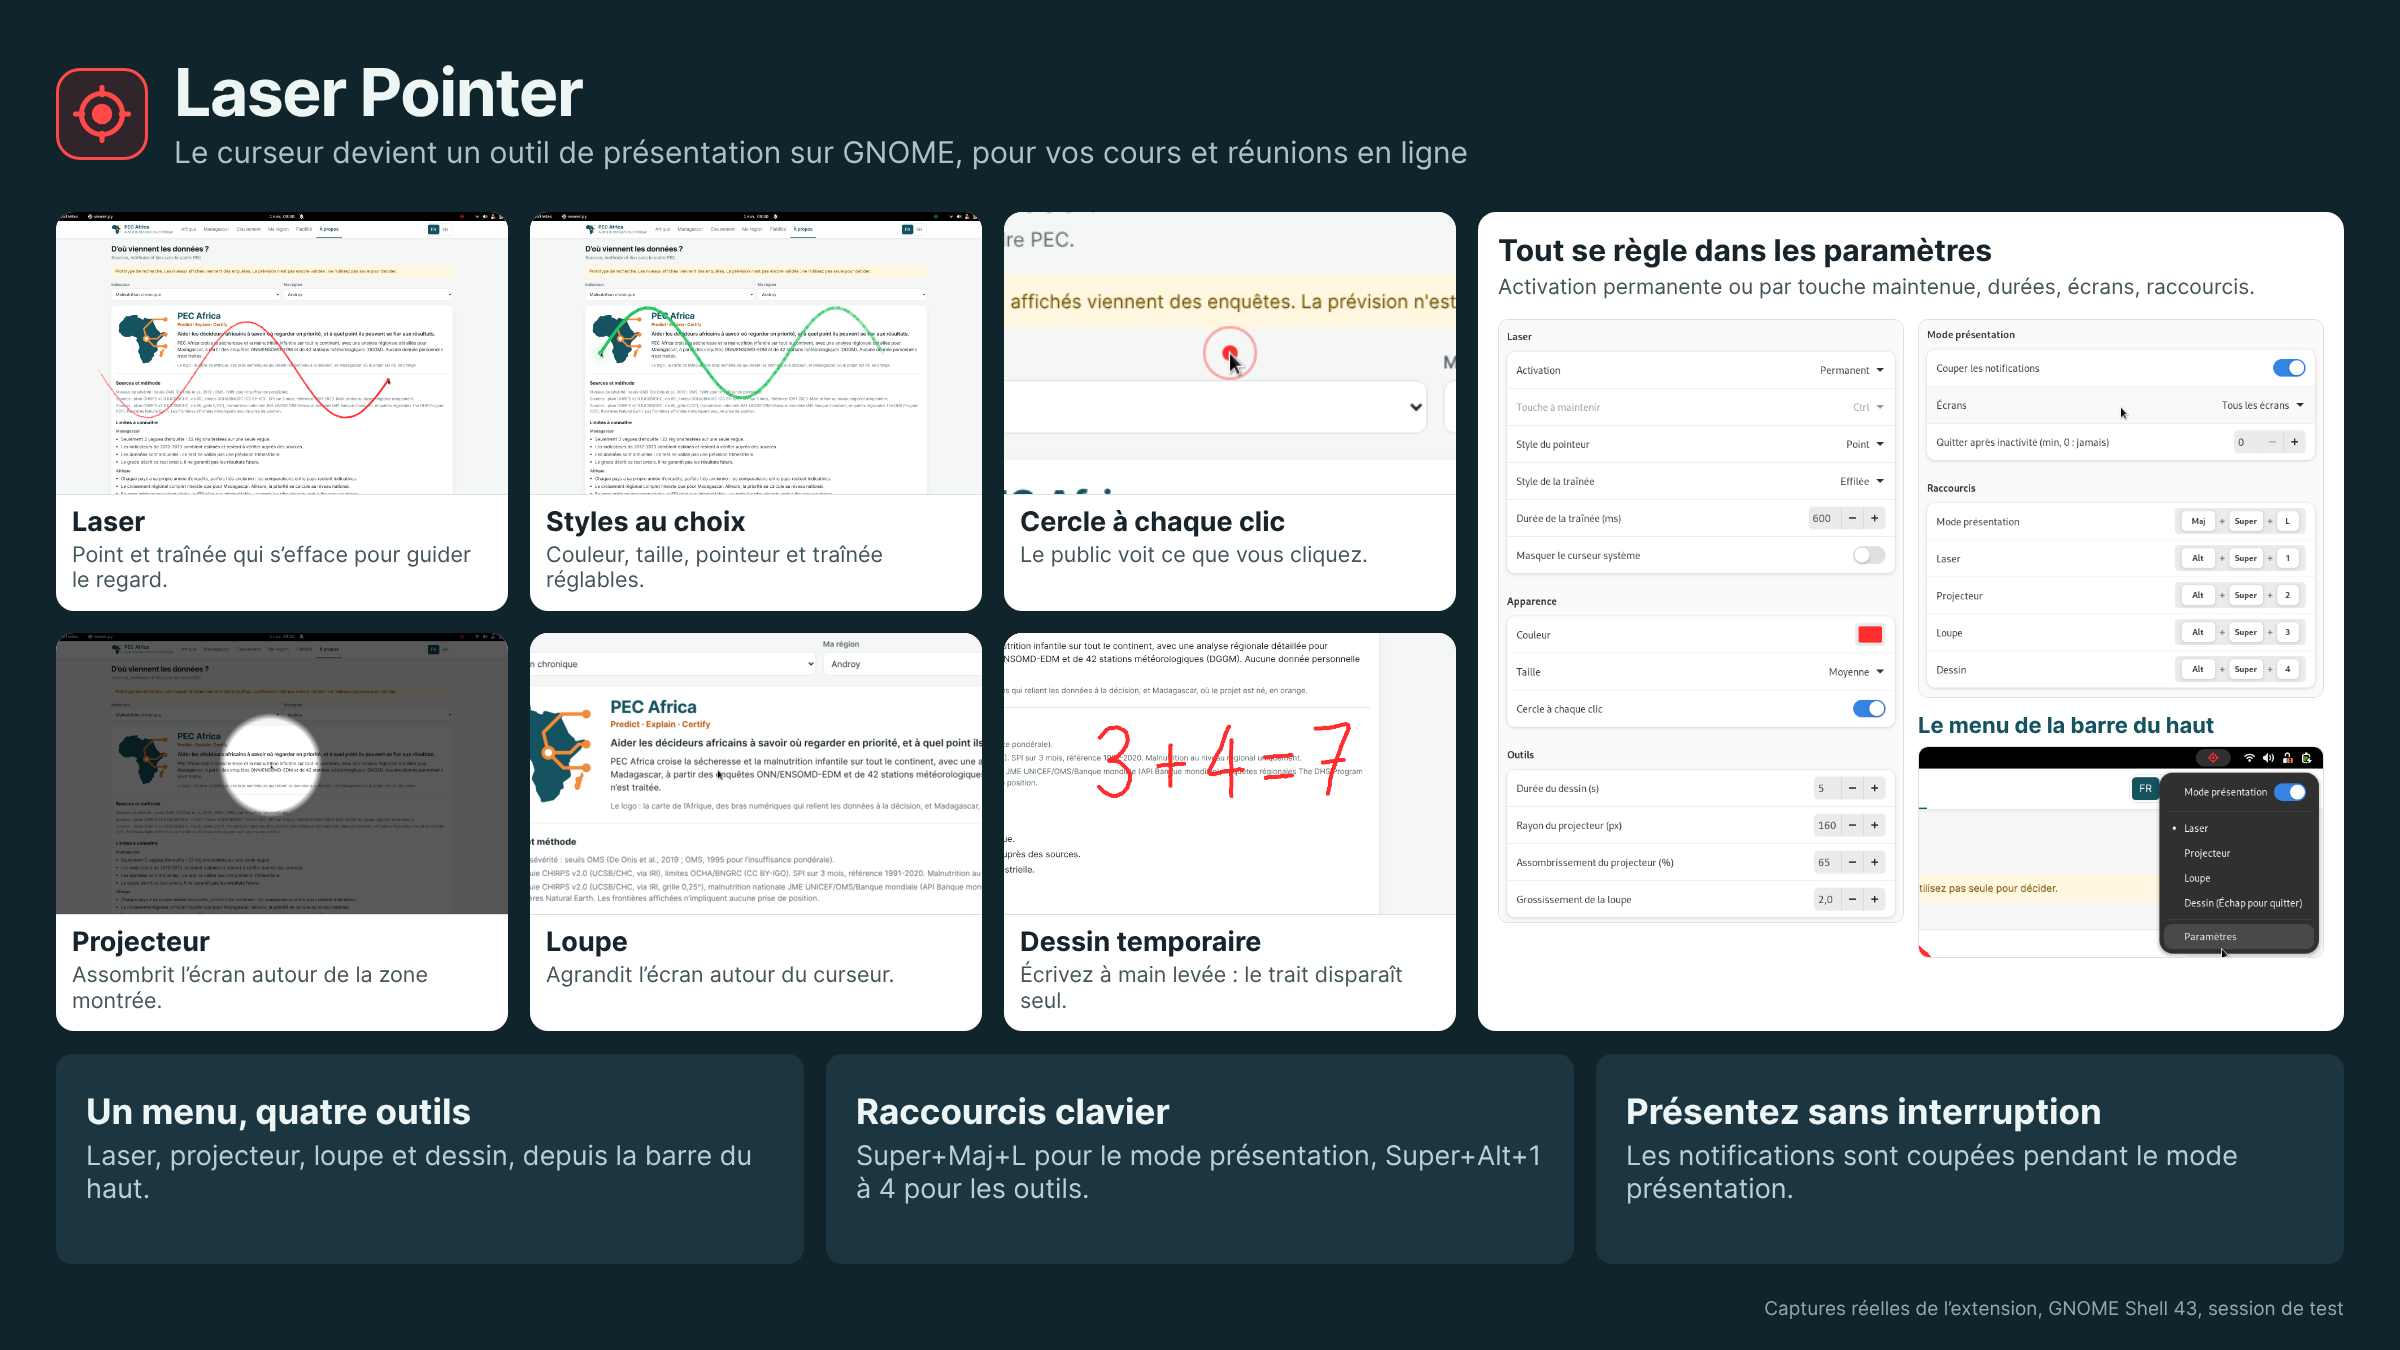
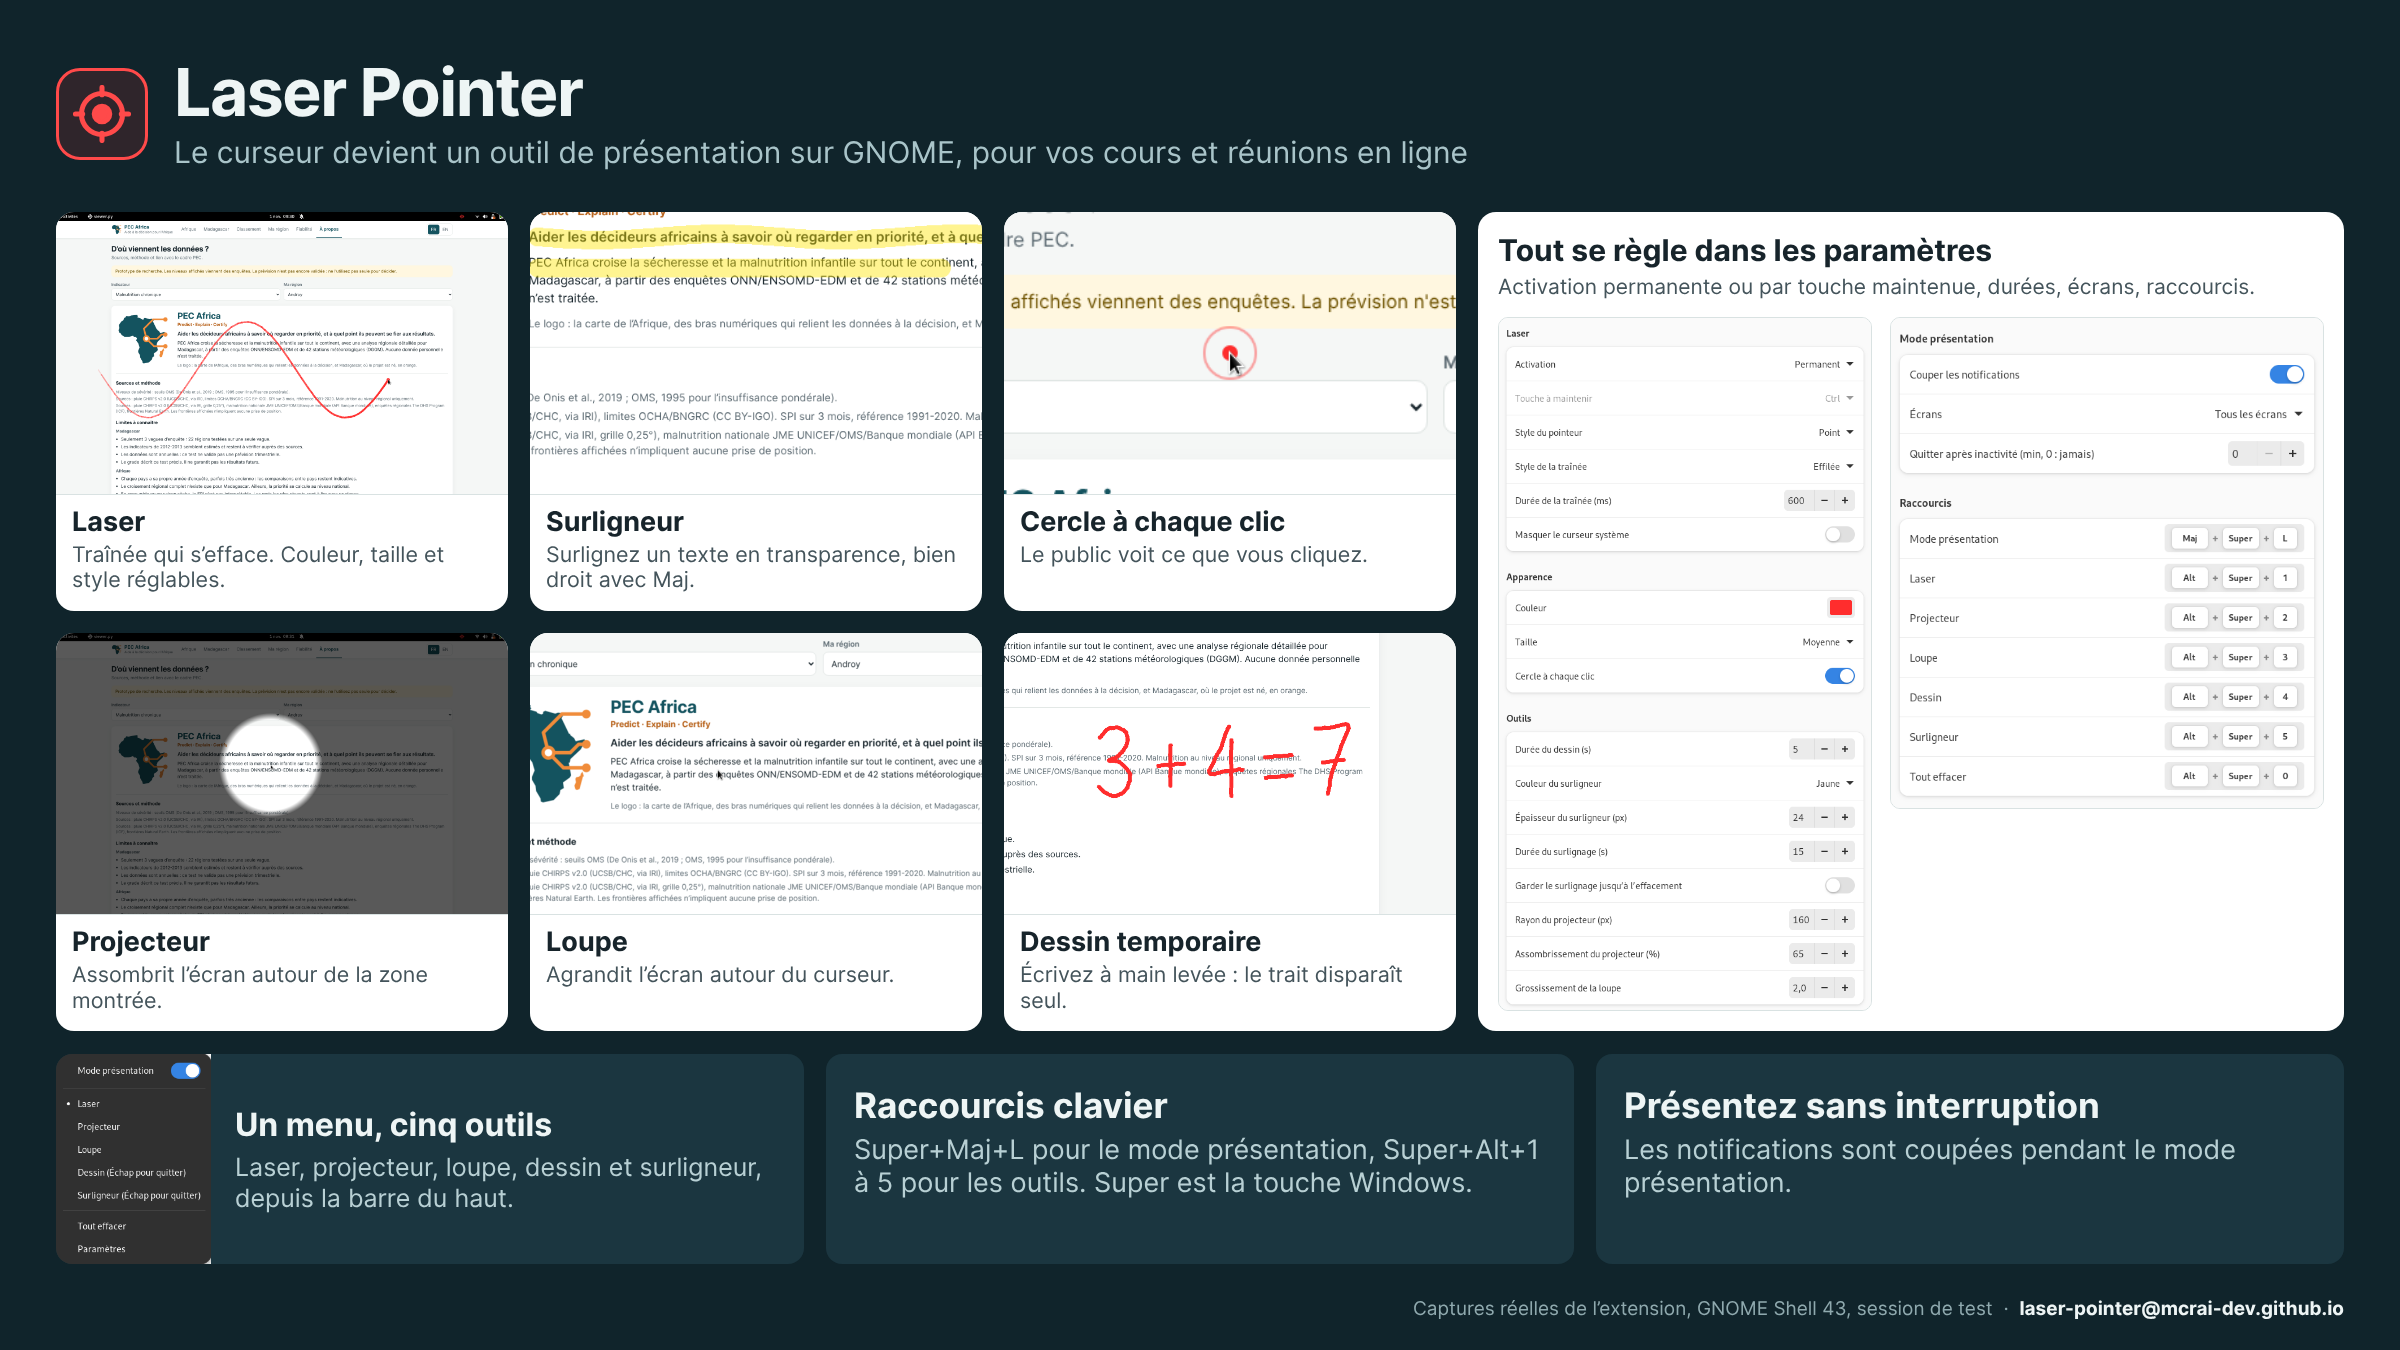
Add highlighter tool and update presentation image

diff --git a/extension.js b/extension.js
@@ -19,6 +19,8 @@ const FRAME_INTERVAL_MS = 16;
 const RIPPLE_SIZE = 64;
 const RIPPLE_DURATION_MS = 400;
 const INK_FADE_MS = 500;
+const HIGHLIGHT_OPACITY = 110;
+const HIGHLIGHT_COLORS = {yellow: '#ffe600', green: '#39d96b', pink: '#ff5ca8', blue: '#42b6ff'};
 
 const SIZES = {
     small: {trail: 4, pointer: 8},
@@ -40,10 +42,14 @@ const TOOLS = [
     {id: 'spotlight', label: 'Projecteur', shortcut: 'tool-spotlight'},
     {id: 'magnifier', label: 'Loupe', shortcut: 'tool-magnifier'},
     {id: 'draw', label: 'Dessin (Échap pour quitter)', shortcut: 'tool-draw'},
+    {id: 'highlight', label: 'Surligneur (Échap pour quitter)', shortcut: 'tool-highlight'},
 ];
+
+const CAPTURE_TOOLS = ['draw', 'highlight'];
 
 const SHORTCUT_KEYS = [
     'toggle-presentation',
+    'clear-annotations',
     ...TOOLS.map(tool => tool.shortcut),
 ];
 
@@ -90,6 +96,10 @@ class LaserPointerExtension {
             new PopupMenu.PopupSeparatorMenuItem()
         );
 
+        const clearItem = new PopupMenu.PopupMenuItem('Tout effacer');
+        clearItem.connect('activate', () => this._clearAnnotations());
+        this._button.menu.addMenuItem(clearItem);
+
         const prefsItem = new PopupMenu.PopupMenuItem('Paramètres');
         prefsItem.connect('activate', () => ExtensionUtils.openPrefs());
         this._button.menu.addMenuItem(prefsItem);
@@ -101,6 +111,7 @@ class LaserPointerExtension {
         );
         for (const tool of TOOLS)
             this._addKeybinding(tool.shortcut, () => this._selectTool(tool.id));
+        this._addKeybinding('clear-annotations', () => this._clearAnnotations());
 
         this._settingsId = this._settings.connect('changed', (_settings, key) => {
             if (this._active && !SHORTCUT_KEYS.includes(key))
@@ -179,6 +190,10 @@ class LaserPointerExtension {
             hideCursor: s.get_boolean('hide-cursor'),
             clickEffect: s.get_boolean('click-effect'),
             drawDuration: s.get_int('draw-duration') * 1000,
+            highlightColor: HIGHLIGHT_COLORS[s.get_string('highlight-color')],
+            highlightWidth: s.get_int('highlight-width'),
+            highlightDuration: s.get_int('highlight-duration') * 1000,
+            highlightPersist: s.get_boolean('highlight-persist'),
             spotlightRadius: s.get_int('spotlight-radius'),
             spotlightDim: s.get_int('spotlight-dim') / 100,
             magnifierFactor: s.get_double('magnifier-factor'),
@@ -193,6 +208,7 @@ class LaserPointerExtension {
         this._points = [];
         this._ripples = [];
         this._ink = [];
+        this._highlights = [];
         this._stroke = 0;
         this._wasDrawing = false;
         this._wasPressed = false;
@@ -235,6 +251,7 @@ class LaserPointerExtension {
         this._points = null;
         this._ripples = null;
         this._ink = null;
+        this._highlights = null;
 
         Meta.enable_unredirect_for_display(global.display);
 
@@ -283,9 +300,9 @@ class LaserPointerExtension {
         this._overlay.add_child(this._pointer);
     }
 
-    _createStroke(width) {
+    _createStroke(width, color = this._config.color) {
         return new St.Widget({
-            style: `background-color: ${this._config.color}; border-radius: ${width}px;`,
+            style: `background-color: ${color}; border-radius: ${width}px;`,
         });
     }
 
@@ -337,6 +354,7 @@ class LaserPointerExtension {
             this._startMagnifier();
             break;
         case 'draw':
+        case 'highlight':
             this._startDrawing();
             break;
         }
@@ -361,6 +379,7 @@ class LaserPointerExtension {
             this._stopMagnifier();
             break;
         case 'draw':
+        case 'highlight':
             this._stopDrawing();
             break;
         }
@@ -398,29 +417,41 @@ class LaserPointerExtension {
         });
         this._overlay.add_child(this._capture);
         this._inkPoint = null;
+        this._highlightStroke = null;
 
         this._capture.connect('button-press-event', (_actor, event) => {
             const [x, y] = event.get_coords();
 
             this._inkPoint = {x, y};
+            if (this._tool === 'highlight')
+                this._beginHighlight(x, y);
             return Clutter.EVENT_STOP;
         });
         this._capture.connect('motion-event', (_actor, event) => {
             if (this._inkPoint) {
                 const [x, y] = event.get_coords();
 
-                this._addInk(this._inkPoint, {x, y});
-                this._inkPoint = {x, y};
+                if (this._tool === 'highlight') {
+                    this._extendHighlight(x, y, event.get_state());
+                } else {
+                    this._addInk(this._inkPoint, {x, y});
+                    this._inkPoint = {x, y};
+                }
             }
             return Clutter.EVENT_STOP;
         });
         this._capture.connect('button-release-event', () => {
+            this._endHighlight();
             this._inkPoint = null;
             return Clutter.EVENT_STOP;
         });
         this._capture.connect('key-press-event', (_actor, event) => {
-            if (event.get_key_symbol() === Clutter.KEY_Escape)
+            const key = event.get_key_symbol();
+
+            if (key === Clutter.KEY_Escape)
                 this._selectTool('laser');
+            else if (key === Clutter.KEY_Delete)
+                this._clearAnnotations();
             return Clutter.EVENT_STOP;
         });
 
@@ -431,12 +462,71 @@ class LaserPointerExtension {
     }
 
     _stopDrawing() {
+        this._endHighlight();
         global.display.set_cursor(Meta.Cursor.DEFAULT);
         Main.popModal(this._grab);
         this._grab = null;
         this._capture.destroy();
         this._capture = null;
         this._inkPoint = null;
+    }
+
+    // Le trait est aplati avant d'être rendu translucide : ses segments se
+    // chevauchent sans faire de taches plus foncées
+    _beginHighlight(x, y) {
+        this._highlightStroke = new Clutter.Actor({
+            offscreen_redirect: Clutter.OffscreenRedirect.ALWAYS,
+            opacity: HIGHLIGHT_OPACITY,
+        });
+        this._overlay.insert_child_below(this._highlightStroke, this._pointer);
+        this._highlightStart = {x, y};
+        this._addHighlightSegment({x, y}, {x, y});
+    }
+
+    _addHighlightSegment(from, to) {
+        const {highlightWidth: width, highlightColor: color} = this._config;
+        const segment = this._createStroke(width, color);
+
+        this._placeStroke(segment, from, to, width);
+        this._highlightStroke.add_child(segment);
+    }
+
+    // Maj maintenue : le trait reste horizontal, à la hauteur de son départ
+    _extendHighlight(x, y, state) {
+        if (!this._highlightStroke)
+            return;
+
+        if (state & Clutter.ModifierType.SHIFT_MASK) {
+            this._highlightStroke.destroy_all_children();
+            this._addHighlightSegment(this._highlightStart, {x, y: this._highlightStart.y});
+            this._inkPoint = {x, y: this._highlightStart.y};
+            return;
+        }
+
+        this._addHighlightSegment(this._inkPoint, {x, y});
+        this._inkPoint = {x, y};
+    }
+
+    _endHighlight() {
+        if (!this._highlightStroke)
+            return;
+
+        this._highlights.push({
+            actor: this._highlightStroke,
+            time: GLib.get_monotonic_time() / 1000,
+        });
+        this._highlightStroke = null;
+    }
+
+    _clearAnnotations() {
+        if (!this._active)
+            return;
+
+        this._endHighlight();
+        for (const {actor} of [...this._ink, ...this._highlights])
+            actor.destroy();
+        this._ink = [];
+        this._highlights = [];
     }
 
     _addInk(from, to) {
@@ -480,12 +570,13 @@ class LaserPointerExtension {
         const pressed = (mods & CLICK_MASK) !== 0;
 
         if (pressed && !this._wasPressed &&
-            this._config.clickEffect && this._tool !== 'draw')
+            this._config.clickEffect && !CAPTURE_TOOLS.includes(this._tool))
             this._addRipple(x, y, now);
         this._wasPressed = pressed;
 
         this._updateRipples(now);
         this._updateInk(now);
+        this._updateHighlights(now);
 
         if (this._tool === 'laser') {
             this._updateLaser(x, y, mods, now);
@@ -521,6 +612,25 @@ class LaserPointerExtension {
 
             actor.set_scale(0.2 + 0.8 * progress, 0.2 + 0.8 * progress);
             actor.opacity = Math.round(255 * (1 - progress));
+            return true;
+        });
+    }
+
+    _updateHighlights(now) {
+        if (this._config.highlightPersist)
+            return;
+
+        const duration = this._config.highlightDuration;
+
+        this._highlights = this._highlights.filter(({actor, time}) => {
+            const remaining = duration - (now - time);
+
+            if (remaining <= 0) {
+                actor.destroy();
+                return false;
+            }
+
+            actor.opacity = Math.round(HIGHLIGHT_OPACITY * Math.min(remaining / INK_FADE_MS, 1));
             return true;
         });
     }

diff --git a/prefs.js b/prefs.js
@@ -212,6 +212,15 @@ function fillPreferencesWindow(window) {
     const tools = createGroup(page, 'Outils');
 
     addSpinRow(tools, settings, 'draw-duration', 'Durée du dessin (s)', 1, 60, 1);
+    addChoiceRow(tools, settings, 'highlight-color', 'Couleur du surligneur', {
+        yellow: 'Jaune',
+        green: 'Vert',
+        pink: 'Rose',
+        blue: 'Bleu',
+    });
+    addSpinRow(tools, settings, 'highlight-width', 'Épaisseur du surligneur (px)', 8, 80, 2);
+    addSpinRow(tools, settings, 'highlight-duration', 'Durée du surlignage (s)', 1, 300, 5);
+    addSwitchRow(tools, settings, 'highlight-persist', 'Garder le surlignage jusqu’à l’effacement');
     addSpinRow(tools, settings, 'spotlight-radius', 'Rayon du projecteur (px)', 50, 500, 10);
     addSpinRow(tools, settings, 'spotlight-dim', 'Assombrissement du projecteur (%)', 20, 95, 5);
     addSpinRow(tools, settings, 'magnifier-factor', 'Grossissement de la loupe', 1.5, 5, 0.5, 1);
@@ -232,6 +241,8 @@ function fillPreferencesWindow(window) {
     addShortcutRow(shortcuts, settings, 'tool-spotlight', 'Projecteur', window);
     addShortcutRow(shortcuts, settings, 'tool-magnifier', 'Loupe', window);
     addShortcutRow(shortcuts, settings, 'tool-draw', 'Dessin', window);
+    addShortcutRow(shortcuts, settings, 'tool-highlight', 'Surligneur', window);
+    addShortcutRow(shortcuts, settings, 'clear-annotations', 'Tout effacer', window);
 
     window.search_enabled = true;
     window.add(page);

diff --git a/README.md b/README.md
@@ -14,9 +14,13 @@ devient un pointeur laser, avec un projecteur, une loupe et un dessin temporaire
 | Projecteur | `Super+Alt+2` | Assombrit l'écran sauf autour du curseur |
 | Loupe | `Super+Alt+3` | Agrandit l'écran autour du curseur |
 | Dessin | `Super+Alt+4` | Trace à la souris, effacé après quelques secondes. `Échap` pour quitter |
+| Surligneur | `Super+Alt+5` | Surligne en transparence, trait horizontal avec `Maj`. `Échap` pour quitter |
+| Tout effacer | `Super+Alt+0` | Retire le dessin et le surlignage (`Suppr` pendant ces outils) |
 
 Un cercle s'affiche à chaque clic, et les notifications sont coupées pendant le
 mode présentation. Le tout se règle dans les paramètres de l'extension.
+
+`Super` est la touche Windows du clavier.
 
 ## Compatibilité
 
